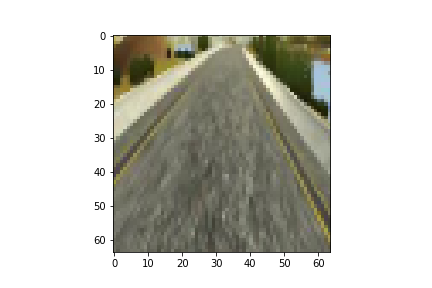
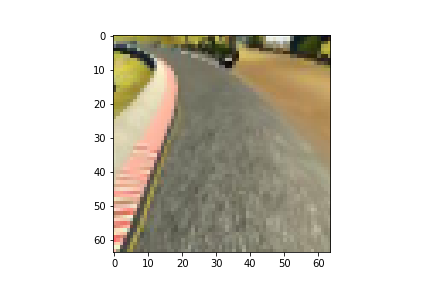
README updated

Changed region(s): [[0.2407, 0.125, 0.7824, 0.875]]

diff --git a/README.md b/README.md
@@ -31,6 +31,13 @@ The goals / steps of this project are the following:
 [image10]: ./output_images/flip.png
 [image11]: ./output_images/his_blance.png
 [image12]: ./output_images/his.png
+[image13]: ./output_images/histogram0.15.png
+[image14]: ./output_images/HLSchannle.png
+[image15]: ./output_images/s_channle.png
+[image16]: ./output_images/s_channel.png
+[image17]: ./output_images/s_processed.png
+
+
 
 
 
@@ -77,7 +84,7 @@ The first thing to analyze is to check the label distribution. In the deep learn
 
 #### 3. Data balancing
 
-We balance the data by randomly picking up 25% of the those data that the angles are zero. In the experiment, we see that with too many portion of zero angle steering data, the car are more likely to run stright. And the balanced data plays an important role in predicting the steering angle in the later on model training. The following function does the balancing:
+We balance the data by randomly picking up 15% of the those data that the angles are zero. In the experiment, we see that with too many portion of zero angle steering data, the car are more likely to run stright. And the balanced data plays an important role in predicting the steering angle in the later on model training. The following function does the balancing:
 
 ```python
 def collect_data(path):
@@ -94,7 +101,7 @@ def collect_data(path):
             image_process(line,data_path)       
         else:
             prob = np.random.uniform()
-            if prob <= 0.25: #adjust the ratio to balance the data
+            if prob <= 0.15: #adjust the ratio to balance the data
                 image_process(line,data_path)
 ```
 
@@ -110,17 +117,35 @@ def collect_data(path):
 
 * Image crop
 ![alt text][image6]  
+
 * Image resize to 64x64x3      
 ![alt text][image7]  
-* Color channel change from RGB to YUV
-![alt text][image9]  
+
+* Color channel change from RGB to HLS and show S channel (inspired by image segmentation)
+![alt text][image16]  
+
+
+* Process the S channel and thresh needs fine-tuning
+```python
+thresh = (40, 255)
+hls = cv2.cvtColor(img, cv2.COLOR_RGB2HLS)
+S= hls[:,:,2]
+binary = np.zeros_like(S)
+binary[(S > thresh[0]) & (S <= thresh[1])] = 1
+plt.imshow(binary)
+```
+![alt text][image17]  
+
+After fine-tuning the s channel to make the road lane standout in the image, we pad processed s channel with two other channels with zeros to make sure the image is 64x64x3, it looks like the following:
+![alt text][image14]  
+
 * Image flip, in the same time reverse the sign of associated angle.
 ![alt text][image10]  
 
 After we the image process, we are able to balance the data with a balanced steering angles set
 
 * Blances data
-![alt text][image11]  
+![alt text][image13]  
 
 
 
@@ -131,7 +156,7 @@ I tested NVIDIA  architecture but I did not do the normalization part for the da
 
 ```python
 model = Sequential()
-model.add(Lambda(lambda x: x, input_shape=(64, 64, 3)))
+model.add(Lambda(lambda x: (x/127.5) -1.0, input_shape=(64, 64, 3)))
 model.add(Convolution2D(32, 3, 3, border_mode='same', subsample=(2, 2), activation='relu', name='Conv1'))
 model.add(MaxPooling2D(pool_size=(2, 2), strides=None, border_mode='same'))
 model.add(Convolution2D(64, 3, 3, border_mode='same', subsample=(2, 2), activation='relu', name='Conv2'))
@@ -139,6 +164,7 @@ model.add(MaxPooling2D(pool_size=(2, 2), strides=None, border_mode='same'))
 model.add(Convolution2D(128, 3, 3, border_mode='same', subsample=(1, 1), activation='relu', name='Conv3'))
 model.add(MaxPooling2D(pool_size=(2, 2), strides=None, border_mode='same'))
 model.add(Convolution2D(128, 2, 2, border_mode='same', subsample=(1, 1), activation='relu', name='Conv4'))
+
 model.add(Flatten())
 model.add(Dropout(0.2))
 model.add(Dense(128, activation='relu', name='FC1'))
@@ -168,12 +194,14 @@ After tried many times of fine-tuning the following two parameter, I found that 
 
 At the end I will share the project video that needs to be submitted here.
 
-[![Click to check the project video](https://www.youtube.com/watch?v=XOdgMOJydZ8)](https://www.youtube.com/watch?v=XOdgMOJydZ8) 
+[![Click to check the project video](https://youtu.be/bSUrWfuB280)](https://youtu.be/bSUrWfuB280) 
 
 ### Reflections
-As we can see from the video that the car was swinging in the road even though the car did not run out of the track. This is due to the right and left images data with correction on the steering angle that were used in the training. And I have tuned the correction value for many rounds and 0.25 was the value that makes the car run inside the lane but still now stable enough.  I have also spent more than two weeks to train the model and process the image under various method, like change the brightness change the size, but those only helps were presented above in this note. 
+As we can see from the video that the car was swinging in the road even though the car did not run out of the track. This is due to the right and left images data with correction on the steering angle that were used in the training. And I have tuned the correction value for many rounds and 0.15 was the value that makes the car run inside the lane but still now stable enough.  I have also spent more than two weeks to train the model and process the image under various method, like change the brightness change the size, but those only helps were presented above in this note. 
 
 Among all the 4 projects that I have done, this one is most challenging for me because I have failed many times in the big turn corner place where the car were always not able to turn big enough to stay inside the lane. But after many trials and errors, I am able to ensure the car runing insde the lane. Even though I am not very satisfied with the performance now but I have no other solutions for the moment now I will first submit first to wait for better suggested solutions. 
+
+In the modified version, I processed the image in HLS channel, which I learnt during the project for advanced lane detection.
 
 
 

diff --git a/writeup_report.md b/writeup_report.md
@@ -31,6 +31,13 @@ The goals / steps of this project are the following:
 [image10]: ./output_images/flip.png
 [image11]: ./output_images/his_blance.png
 [image12]: ./output_images/his.png
+[image13]: ./output_images/histogram0.15.png
+[image14]: ./output_images/HLSchannle.png
+[image15]: ./output_images/s_channle.png
+[image16]: ./output_images/s_channel.png
+[image17]: ./output_images/s_processed.png
+
+
 
 
 
@@ -77,7 +84,7 @@ The first thing to analyze is to check the label distribution. In the deep learn
 
 #### 3. Data balancing
 
-We balance the data by randomly picking up 25% of the those data that the angles are zero. In the experiment, we see that with too many portion of zero angle steering data, the car are more likely to run stright. And the balanced data plays an important role in predicting the steering angle in the later on model training. The following function does the balancing:
+We balance the data by randomly picking up 15% of the those data that the angles are zero. In the experiment, we see that with too many portion of zero angle steering data, the car are more likely to run stright. And the balanced data plays an important role in predicting the steering angle in the later on model training. The following function does the balancing:
 
 ```python
 def collect_data(path):
@@ -94,7 +101,7 @@ def collect_data(path):
             image_process(line,data_path)       
         else:
             prob = np.random.uniform()
-            if prob <= 0.25: #adjust the ratio to balance the data
+            if prob <= 0.15: #adjust the ratio to balance the data
                 image_process(line,data_path)
 ```
 
@@ -110,17 +117,35 @@ def collect_data(path):
 
 * Image crop
 ![alt text][image6]  
+
 * Image resize to 64x64x3      
 ![alt text][image7]  
-* Color channel change from RGB to YUV
-![alt text][image9]  
+
+* Color channel change from RGB to HLS and show S channel (inspired by image segmentation)
+![alt text][image16]  
+
+
+* Process the S channel and thresh needs fine-tuning
+```python
+thresh = (40, 255)
+hls = cv2.cvtColor(img, cv2.COLOR_RGB2HLS)
+S= hls[:,:,2]
+binary = np.zeros_like(S)
+binary[(S > thresh[0]) & (S <= thresh[1])] = 1
+plt.imshow(binary)
+```
+![alt text][image17]  
+
+After fine-tuning the s channel to make the road lane standout in the image, we pad processed s channel with two other channels with zeros to make sure the image is 64x64x3, it looks like the following:
+![alt text][image14]  
+
 * Image flip, in the same time reverse the sign of associated angle.
 ![alt text][image10]  
 
 After we the image process, we are able to balance the data with a balanced steering angles set
 
 * Blances data
-![alt text][image11]  
+![alt text][image13]  
 
 
 
@@ -131,7 +156,7 @@ I tested NVIDIA  architecture but I did not do the normalization part for the da
 
 ```python
 model = Sequential()
-model.add(Lambda(lambda x: x, input_shape=(64, 64, 3)))
+model.add(Lambda(lambda x: (x/127.5) -1.0, input_shape=(64, 64, 3)))
 model.add(Convolution2D(32, 3, 3, border_mode='same', subsample=(2, 2), activation='relu', name='Conv1'))
 model.add(MaxPooling2D(pool_size=(2, 2), strides=None, border_mode='same'))
 model.add(Convolution2D(64, 3, 3, border_mode='same', subsample=(2, 2), activation='relu', name='Conv2'))
@@ -139,6 +164,7 @@ model.add(MaxPooling2D(pool_size=(2, 2), strides=None, border_mode='same'))
 model.add(Convolution2D(128, 3, 3, border_mode='same', subsample=(1, 1), activation='relu', name='Conv3'))
 model.add(MaxPooling2D(pool_size=(2, 2), strides=None, border_mode='same'))
 model.add(Convolution2D(128, 2, 2, border_mode='same', subsample=(1, 1), activation='relu', name='Conv4'))
+
 model.add(Flatten())
 model.add(Dropout(0.2))
 model.add(Dense(128, activation='relu', name='FC1'))
@@ -168,12 +194,14 @@ After tried many times of fine-tuning the following two parameter, I found that 
 
 At the end I will share the project video that needs to be submitted here.
 
-[![Click to check the project video](https://www.youtube.com/watch?v=XOdgMOJydZ8)](https://www.youtube.com/watch?v=XOdgMOJydZ8) 
+[![Click to check the project video](https://youtu.be/bSUrWfuB280)](https://youtu.be/bSUrWfuB280) 
 
 ### Reflections
-As we can see from the video that the car was swinging in the road even though the car did not run out of the track. This is due to the right and left images data with correction on the steering angle that were used in the training. And I have tuned the correction value for many rounds and 0.25 was the value that makes the car run inside the lane but still now stable enough.  I have also spent more than two weeks to train the model and process the image under various method, like change the brightness change the size, but those only helps were presented above in this note. 
+As we can see from the video that the car was swinging in the road even though the car did not run out of the track. This is due to the right and left images data with correction on the steering angle that were used in the training. And I have tuned the correction value for many rounds and 0.15 was the value that makes the car run inside the lane but still now stable enough.  I have also spent more than two weeks to train the model and process the image under various method, like change the brightness change the size, but those only helps were presented above in this note. 
 
 Among all the 4 projects that I have done, this one is most challenging for me because I have failed many times in the big turn corner place where the car were always not able to turn big enough to stay inside the lane. But after many trials and errors, I am able to ensure the car runing insde the lane. Even though I am not very satisfied with the performance now but I have no other solutions for the moment now I will first submit first to wait for better suggested solutions. 
+
+In the modified version, I processed the image in HLS channel, which I learnt during the project for advanced lane detection.
 
 
 
